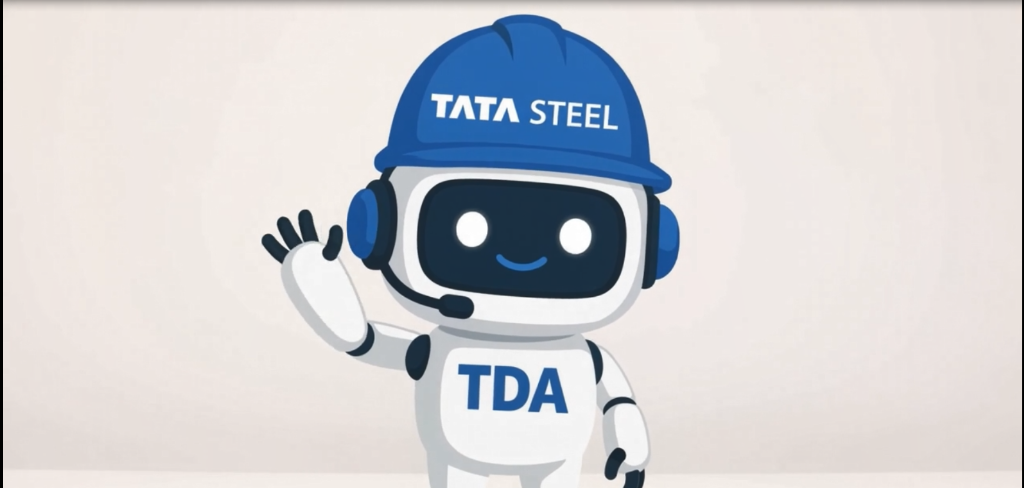
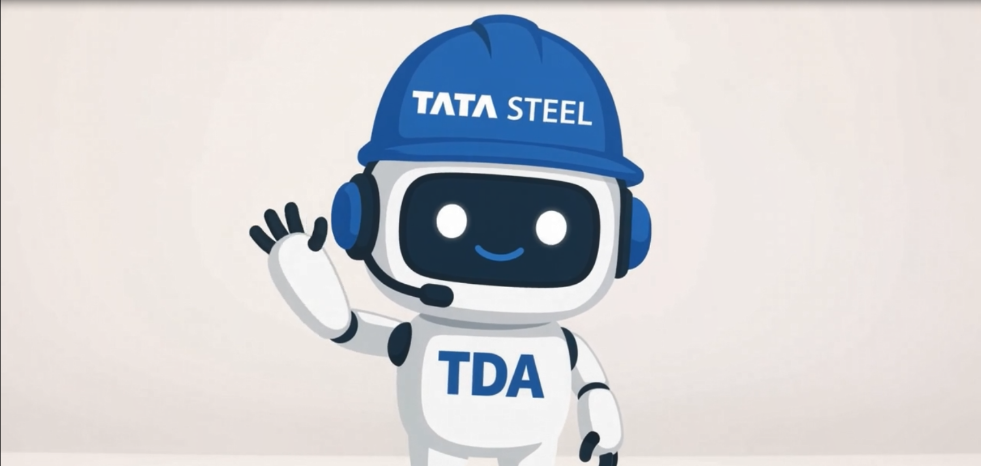
feat(mascot): update blue face card with Tata Steel helmet robot image and TDA SECY branding

diff --git a/TeamsCallingBot/Video/VideoFrameConverter.cs b/TeamsCallingBot/Video/VideoFrameConverter.cs
@@ -373,7 +373,7 @@ namespace TeamsCallingBot.Video
                 using (var textBrush = new SolidBrush(Color.White))
                 {
                     g.FillEllipse(dotBrush, 24, barY + 20, 14, 14);
-                    g.DrawString("TDA ASSISTANT  •  TATA STEEL", titleFont, textBrush, 48, barY + 16);
+                    g.DrawString("TDA SECY", titleFont, textBrush, 48, barY + 16);
                 }
 
                 // Dynamic Status on right
@@ -491,12 +491,16 @@ namespace TeamsCallingBot.Video
                 g.PixelOffsetMode = PixelOffsetMode.HighQuality;
                 g.TextRenderingHint = System.Drawing.Text.TextRenderingHint.ClearTypeGridFit;
 
+                // Background color matching robot image canvas
+                g.Clear(Color.FromArgb(233, 225, 220));
+
                 string[] candidateMascotPaths = new[]
                 {
                     Path.Combine(AppDomain.CurrentDomain.BaseDirectory, "tda_mascot.png"),
                     Path.Combine(Directory.GetCurrentDirectory(), "tda_mascot.png"),
                     @"C:\Users\jaidevlalgame\Downloads\TeamsCallingBot\TeamsCallingBot\TeamsCallingBot\tda_mascot.png",
-                    @"C:\Users\jaidevlalgame\.gemini\antigravity-ide\brain\f7426c11-f2b4-4321-b705-cc2ba3f62f2c\.user_uploaded\media_1788939608057.png"
+                    @"C:\Users\jaidevlalgame\Downloads\TeamsCallingBot-Sushx21\TeamsCallingBot\tda_mascot.png",
+                    @"C:\Users\jaidevlalgame\.gemini\antigravity-ide\brain\f7426c11-f2b4-4321-b705-cc2ba3f62f2c\.user_uploaded\media_1789040057667.png"
                 };
 
                 string mascotPath = candidateMascotPaths.FirstOrDefault(File.Exists);
@@ -509,10 +513,17 @@ namespace TeamsCallingBot.Video
                     {
                         using (var mascot = Image.FromFile(mascotPath))
                         {
-                            int srcX = 4;
-                            int srcY = 15;
-                            int srcW = mascot.Width - 8;
-                            int srcH = mascot.Height - 30;
+                            int srcX = 0;
+                            int srcY = 0;
+                            int srcW = mascot.Width;
+                            int srcH = mascot.Height;
+
+                            // If raw uncropped screenshot (1024x466 with pillarboxes), crop black sidebars
+                            if (mascot.Width == 1024 && mascot.Height == 466)
+                            {
+                                srcX = 17;
+                                srcW = 981;
+                            }
 
                             float scale = Math.Max(1280f / srcW, (float)availH / srcH);
                             int dstW = (int)(srcW * scale);
